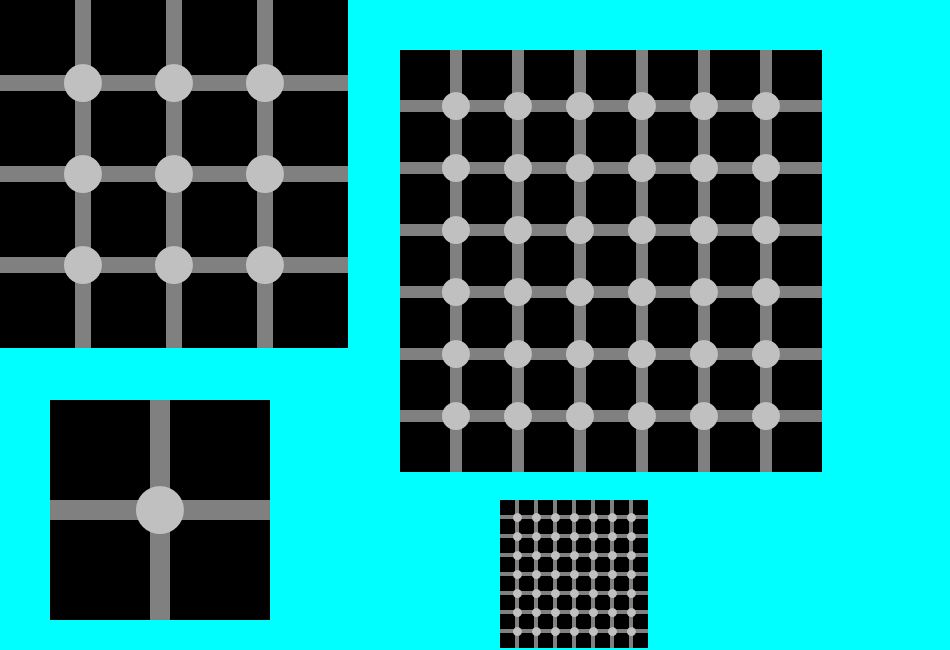
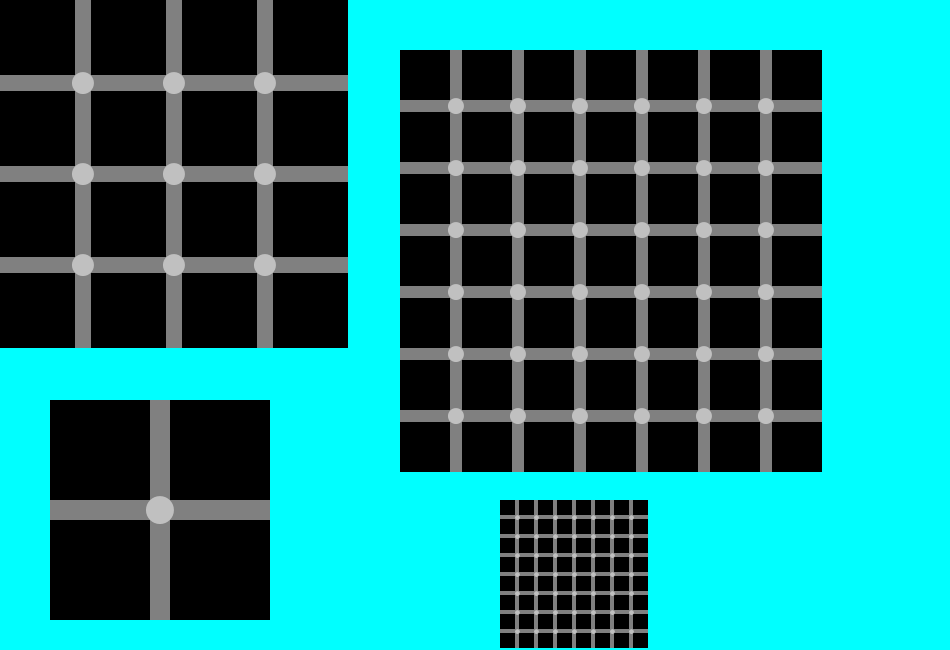
Code Step by Step and ScintillationGrid

diff --git a/UniUnison/codeStepByStep4_1/Face2.java b/UniUnison/codeStepByStep4_1/Face2.java
@@ -1,0 +1,27 @@
+import java.awt.*;
+
+public class Face2 {
+    public static void main(String[] args) {
+        final int WIDTH = 520;
+        final int HEIGHT = 180;
+
+        DrawingPanel dp = new DrawingPanel(WIDTH, HEIGHT);
+        Graphics gr = dp.getGraphics();
+
+        drawFace2(gr, 5, 10, 30, 100);
+    }
+
+    public static void drawFace2(Graphics gr, int numFaces, int x, int y, int step) {
+        for (int i = 0; i < numFaces; i++) {
+            gr.setColor(Color.BLACK);
+            gr.drawOval(x + step * i, y , step, step);
+
+            gr.setColor(Color.BLUE);
+            gr.fillOval((x + 20) + step * i, y + 30, 20, 20);
+            gr.fillOval((x + 60) + step * i, y + 30, 20, 20);
+
+            gr.setColor(Color.RED);
+            gr.drawLine((x + 30) + step * i, y + 70, (x + 70) + step * i, y + 70);
+        }
+    }
+}

diff --git a/UniUnison/codeStepByStep4_1/MickeyBox.java b/UniUnison/codeStepByStep4_1/MickeyBox.java
@@ -7,12 +7,13 @@ public class MickeyBox {
         final int HEIGHT = 150;
 
         DrawingPanel dp = new DrawingPanel(WIDTH, HEIGHT);
-        drawMickeyBox(dp);
+        
+        dp.setBackground(Color.YELLOW);
+        Graphics gr = dp.getGraphics();
+        drawMickeyBox(gr);
     }
 
-    public static void drawMickeyBox(DrawingPanel dp) {
-        Graphics gr = dp.getGraphics();
-        dp.setBackground(Color.YELLOW);
+    public static void drawMickeyBox(Graphics gr) {
 
         gr.setColor(Color.BLUE);
         gr.fillOval(50, 25, 40, 40);
@@ -23,5 +24,18 @@ public class MickeyBox {
 
         gr.setColor(Color.BLACK);
         gr.drawLine(70, 85, 150, 85);
+    }
+
+    public static void drawMickeyBox2(Graphics gr, int x, int y) {
+        
+        gr.setColor(Color.BLUE);
+        gr.fillOval(x, y, 40, 40);
+        gr.fillOval(x + 80, y, 40, 40);
+
+        gr.setColor(Color.RED);
+        gr.fillRect(x + 20, y + 20, 80, 80);
+
+        gr.setColor(Color.BLACK);
+        gr.drawLine(x + 20, y + 60, x + 100, y + 60);
     }
 }

diff --git a/UniUnison/project03/ScintillationGrid.java b/UniUnison/project03/ScintillationGrid.java
@@ -58,8 +58,12 @@ public class ScintillationGrid {
         int initialHorizontalY = y + sizeOfSmall;
         int stepSize = sizeOfSmall + thicknessOfLines;
 
-        int extraDot = (int) (thicknessOfLines * 1.4);
+        int extraDot = (int) (thicknessOfLines * 0.4);
         int dotDiameter = thicknessOfLines + extraDot;
+
+        for (int i = 0; dotDiameter < 4; i++) {
+            dotDiameter += 1;
+        }
 
         int intialDotX = initialVerticalX - extraDot / 2;
         int intialDotY = initialHorizontalY - extraDot / 2;